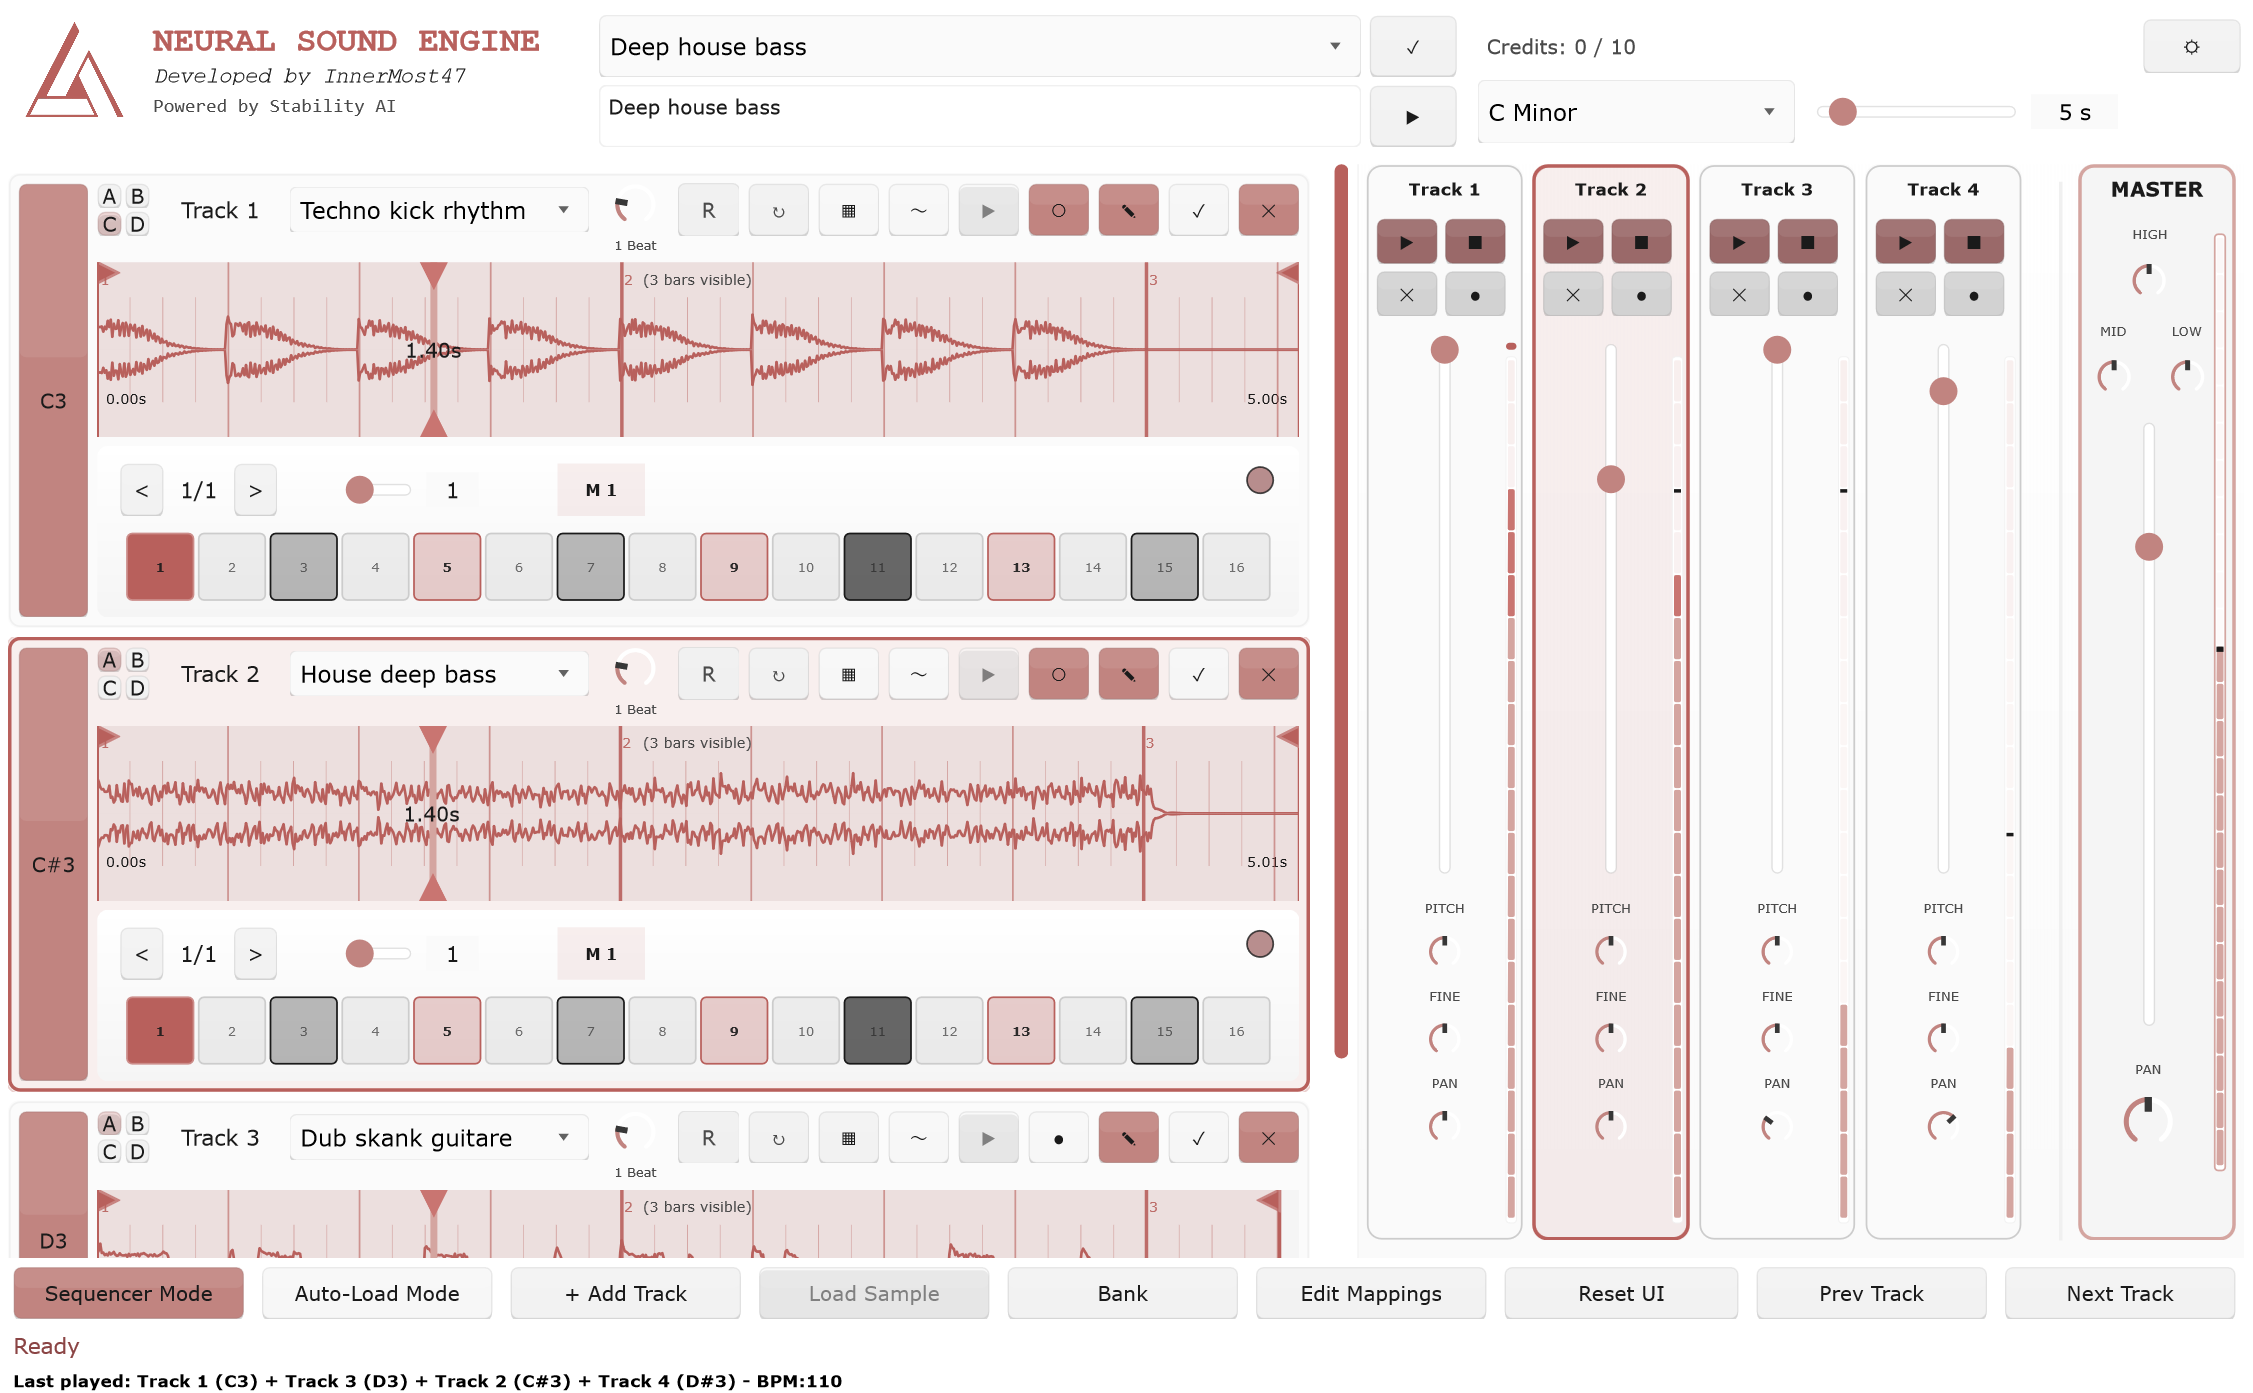
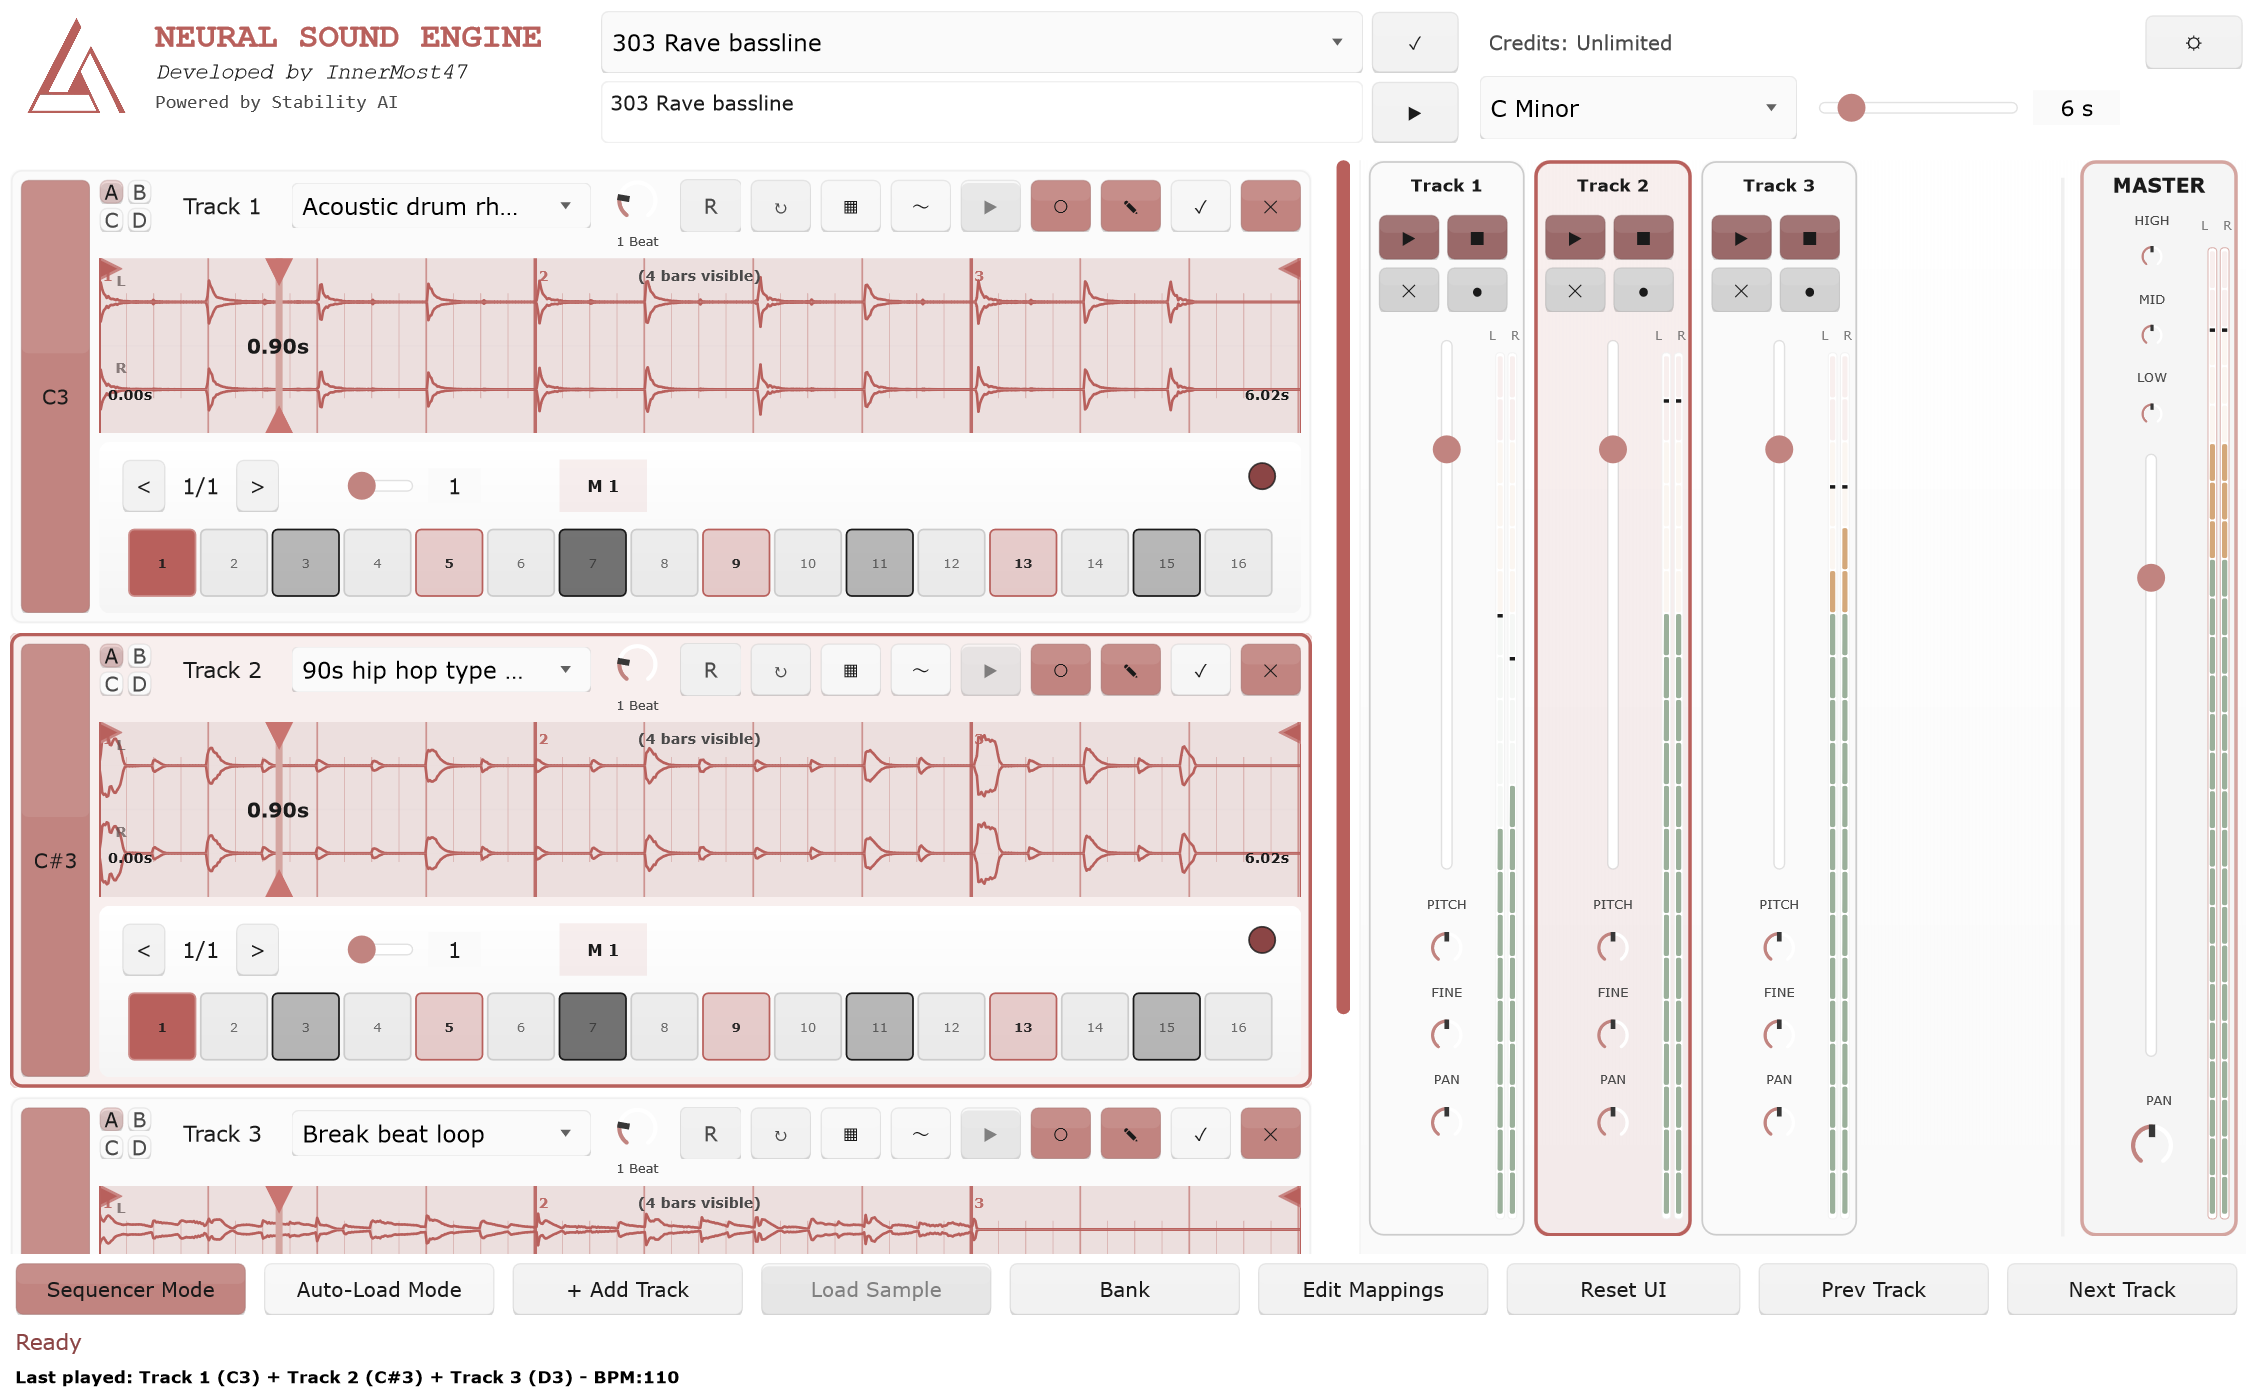
updated screenshot

diff --git a/vst/src/MasterChannel.cpp b/vst/src/MasterChannel.cpp
@@ -284,15 +284,15 @@ void MasterChannel::drawMasterVUMeterStereo(juce::Graphics& g, juce::Rectangle<i
 
 	auto vuAreaLeft = juce::Rectangle<float>(
 		startX,
-		40.0f,
+		50.0f,
 		meterWidth,
-		height - 80.0f);
+		static_cast<float>(bounds.getHeight() - 60));
 
 	auto vuAreaRight = juce::Rectangle<float>(
 		startX + meterWidth + meterSpacing,
-		40.0f,
+		50.0f,
 		meterWidth,
-		height - 80.0f);
+		static_cast<float>(bounds.getHeight() - 60));
 
 	g.setColour(ColourPalette::backgroundDeep);
 	g.fillRoundedRectangle(vuAreaLeft, 2.0f);
@@ -405,38 +405,44 @@ void MasterChannel::resized()
 	int width = area.getWidth();
 
 	masterLabel.setBounds(area.removeFromTop(20));
-	area.removeFromTop(10);
+	area.removeFromTop(5);
 
-	auto eqArea = area.removeFromTop(100);
-	int knobSize = 35;
+	int knobSize = 28;
+	int eqColumnWidth = 40;
 
-	auto highRow = eqArea.removeFromTop(50);
-	highLabel.setBounds((width - 50) / 2, highRow.getY(), 50, 12);
-	highKnob.setBounds((width - knobSize) / 2, highRow.getY() + 15, knobSize, knobSize);
+	auto eqArea = area.removeFromTop(120);
 
-	eqArea.removeFromTop(5);
+	int eqStartX = (width - eqColumnWidth) / 2;
 
-	auto bottomRow = eqArea.removeFromTop(50);
-	int spacing = width / 4;
+	highLabel.setBounds(eqStartX, eqArea.getY(), eqColumnWidth, 10);
+	highKnob.setBounds(eqStartX + (eqColumnWidth - knobSize) / 2,
+		eqArea.getY() + 12, knobSize, knobSize);
 
-	midLabel.setBounds(spacing - 25, bottomRow.getY(), 50, 12);
-	midKnob.setBounds(spacing - knobSize / 2, bottomRow.getY() + 15, knobSize, knobSize);
+	midLabel.setBounds(eqStartX, eqArea.getY() + 45, eqColumnWidth, 10);
+	midKnob.setBounds(eqStartX + (eqColumnWidth - knobSize) / 2,
+		eqArea.getY() + 57, knobSize, knobSize);
 
-	lowLabel.setBounds(width - spacing - 25, bottomRow.getY(), 50, 12);
-	lowKnob.setBounds(width - spacing - knobSize / 2, bottomRow.getY() + 15, knobSize, knobSize);
+	lowLabel.setBounds(eqStartX, eqArea.getY() + 90, eqColumnWidth, 10);
+	lowKnob.setBounds(eqStartX + (eqColumnWidth - knobSize) / 2,
+		eqArea.getY() + 102, knobSize, knobSize);
+
+	area.removeFromTop(5);
 
 	auto volumeArea = area.removeFromTop(372);
 	int faderWidth = width / 3;
 	int centerX = (width - faderWidth) / 2;
-	masterVolumeSlider.setBounds(centerX, volumeArea.getY() + 5, faderWidth, volumeArea.getHeight() - 10);
+	masterVolumeSlider.setBounds(centerX, volumeArea.getY() + 5,
+		faderWidth, volumeArea.getHeight() - 10);
 
 	area.removeFromTop(5);
 
 	auto panArea = area.removeFromTop(60);
-	auto vuZone = panArea.removeFromRight(10);
-	auto knobZone = panArea;
-	panLabel.setBounds(knobZone.removeFromTop(12));
-	masterPanKnob.setBounds(knobZone.reduced(2));
+	panLabel.setBounds(panArea.removeFromTop(12));
+
+	int panKnobSize = 40;
+	int panCenterX = (width - panKnobSize) / 2;
+	masterPanKnob.setBounds(panCenterX, panArea.getY(),
+		panKnobSize, panKnobSize);
 }
 
 inline float linearToDb(float linear)
